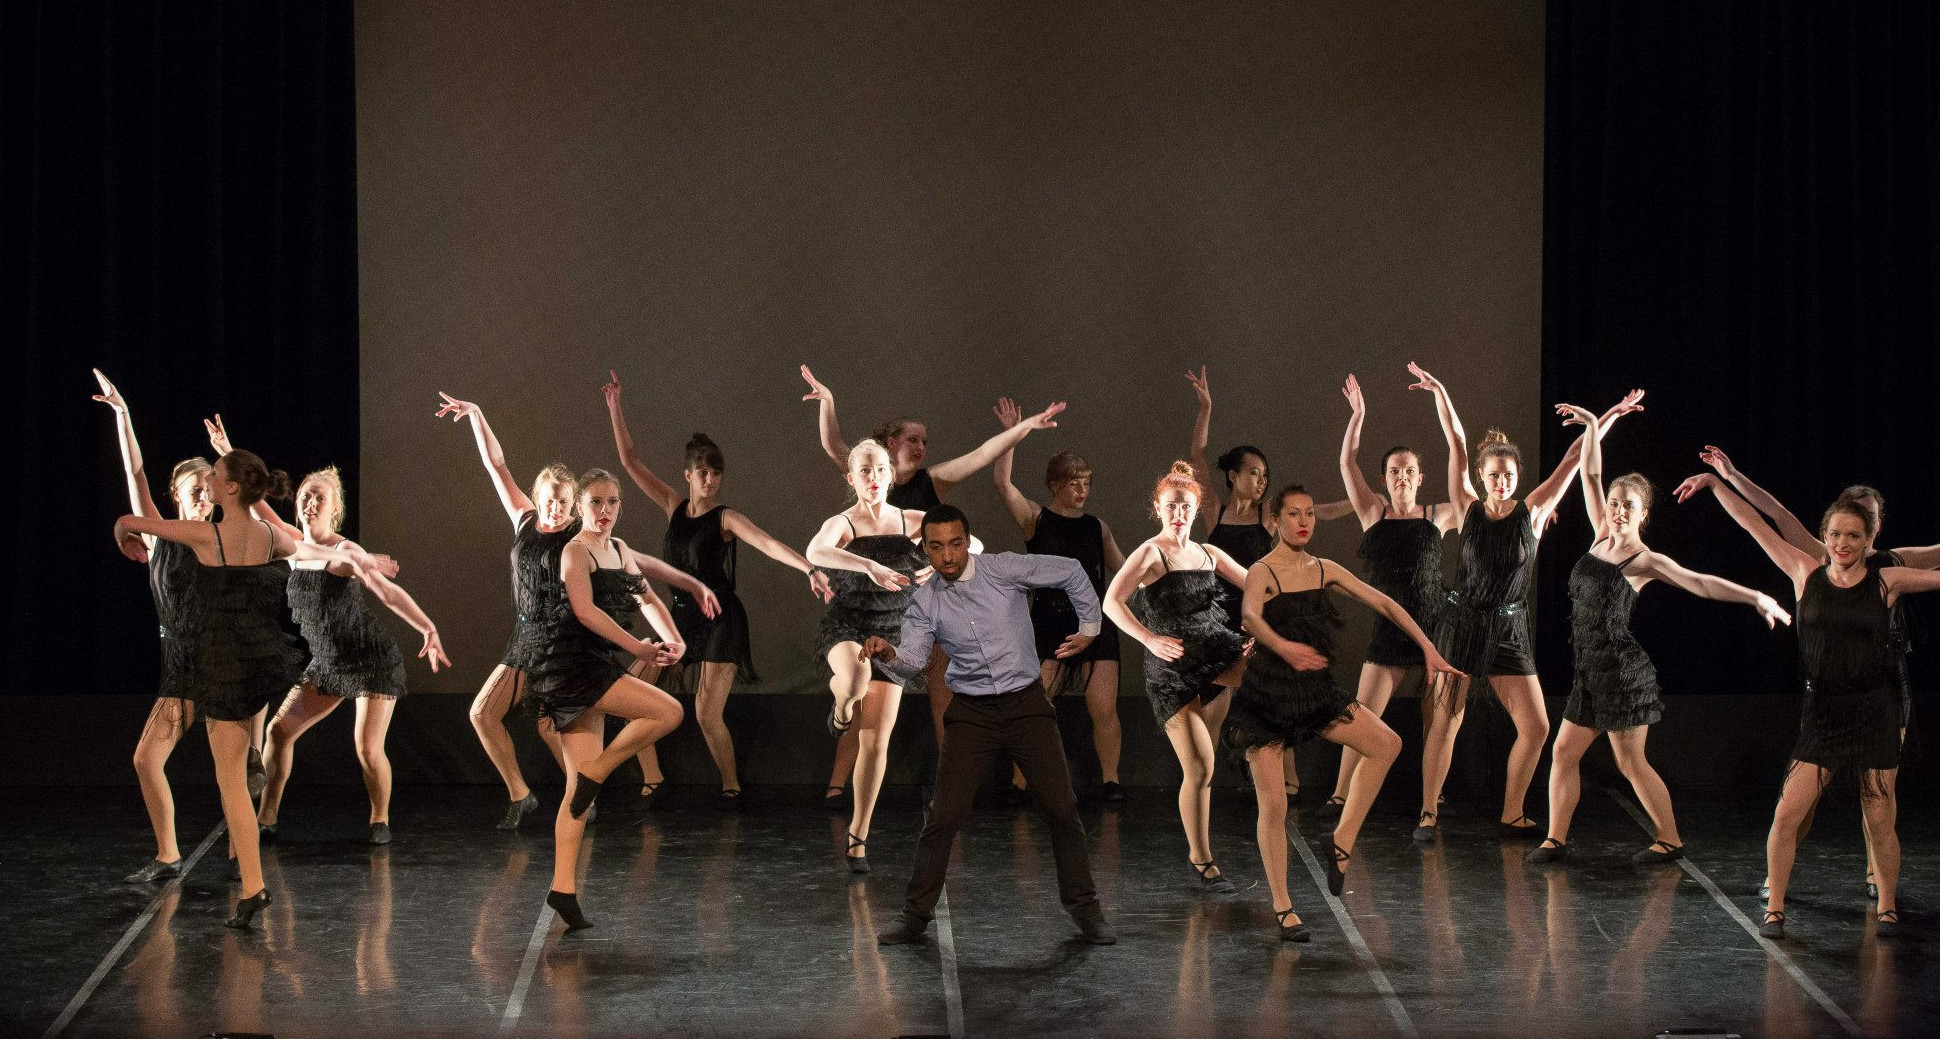
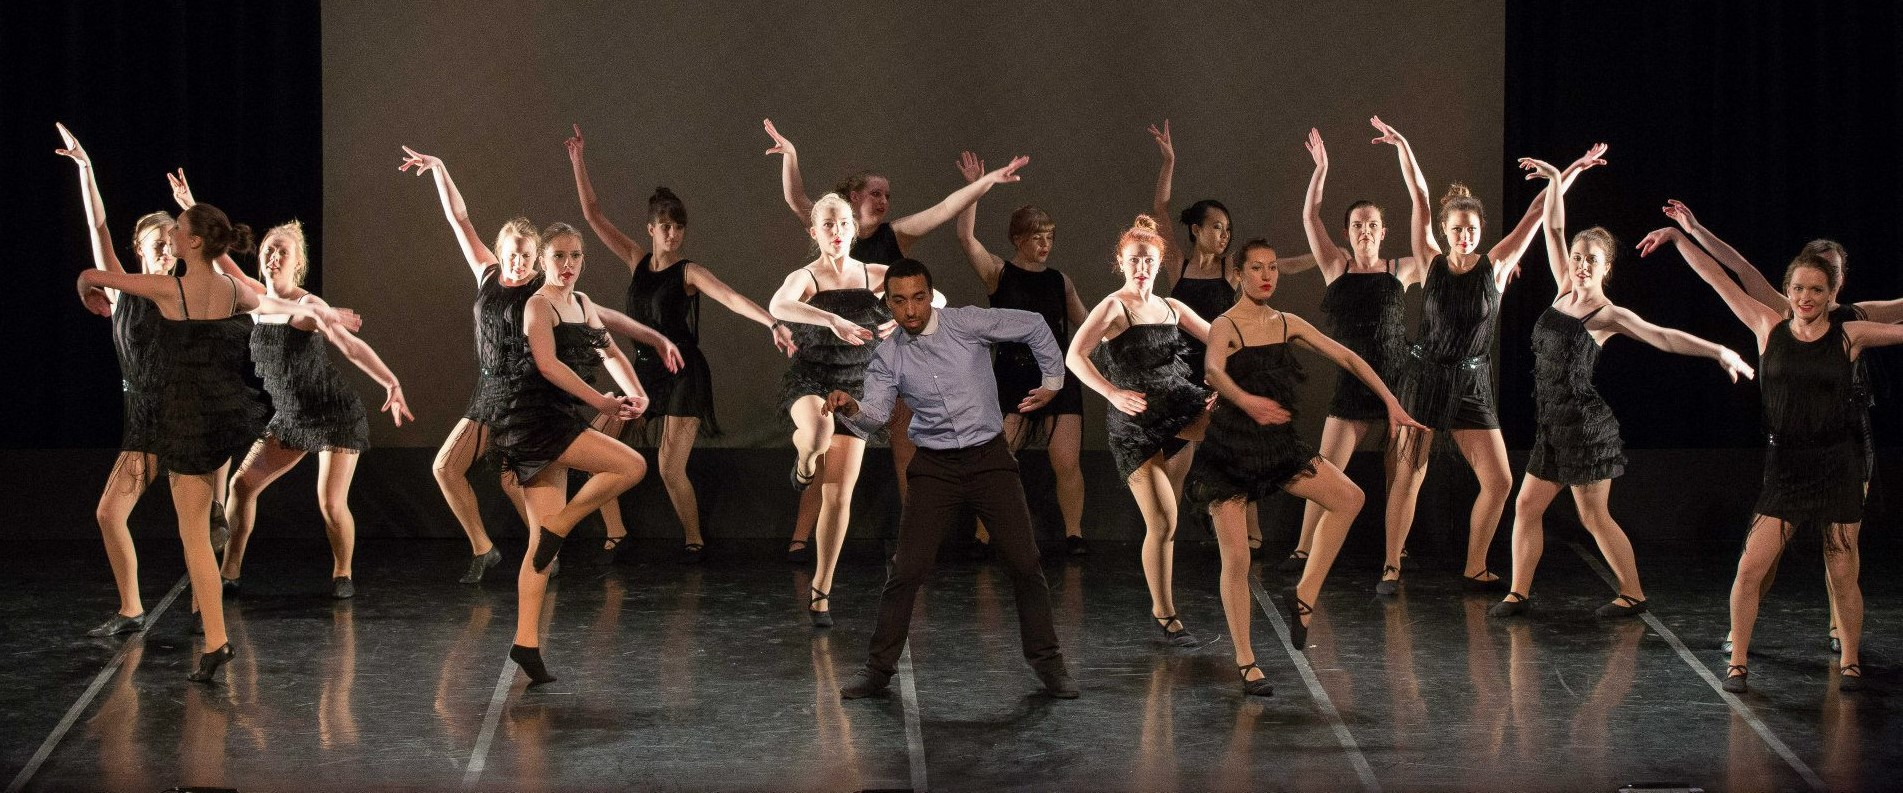
hero images optimized for mobile

diff --git a/AUDS.css b/AUDS.css
@@ -71,8 +71,8 @@ span.glyphicon-menu-down {
 }
 .stepCount {
     display: inline-block;
-    margin-top: 5vw;
-    margin-bottom: 5vw;
+    margin-top: 5vh;
+    margin-bottom: 5vh;
     margin-left: -38vw;
 }
 .stepCount > h1 {
@@ -92,7 +92,7 @@ span.glyphicon-menu-down {
     color: black;
 }
 #hero2 {
-    min-height: 800px;
+    height: 80vh;
     background: url("Images/12194822_10206334033962132_5576593523011839608_o.jpg") right top no-repeat;
     background-size: cover;
     margin-left: -15px;
@@ -100,7 +100,7 @@ span.glyphicon-menu-down {
 }
 .yellowCube {
     background-color: yellow;
-    height: 800px;
+    height: 80vh;
 }
 .yellowCube > .cta {
     border-color: black;
@@ -111,17 +111,17 @@ span.glyphicon-menu-down {
 .yellowCube > h4 {
     font-family: 'Oswald', sans-serif;
     font-size: 3vh;
-    margin-top: 300px;
+    margin-top: 28vh;
     margin-bottom: 100px;
 }
 #hero3 {
-    min-height: 750px;
+    height: 80vh;
     background: url("Images/party.jpg") top left no-repeat;
     background-size: cover;
 }
 #hero3 > a.cta {
     display: inline-block;
-    margin-top: 350px;
+    margin-top: 37vh;
 }
 .extraText > h4 {
     float: right;
@@ -129,25 +129,25 @@ span.glyphicon-menu-down {
     margin-right: 10vw;
     font-size: 3vh;
     font-style: italic;
-    margin-top: -12vw;
+    margin-top: -15.5vh;
 }
 #hero4 {
-    min-height: 800px;
-    background: url("Images/perform.jpg") center bottom no-repeat;
+    min-height: 80vh;
+    background: url("Images/perform.jpg") center center no-repeat;
     background-size: cover;
 }
 #hero4 > a.cta {
     display: inline-block;
-    margin-top: 200px;
+    margin-top: 37vh;
 }
 #hero5 {
-    min-height: 800px;
-    background: url("Images/11084220_983128281698878_4590858276599177121_o.jpg") center center no-repeat;
+    min-height: 100vh;
+    background: url("Images/11084220_983128281698878_4590858276599177121_o.jpg") center bottom no-repeat;
     background-size: cover;
 }
 #hero5 > a.cta {
     display: inline-block;
-    margin-top: 350px;
+    margin-top: 43vh;
 }
 #membership h3 {
   font-family: 'Oswald', sans-serif;
